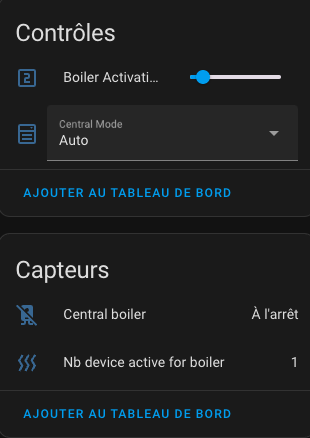
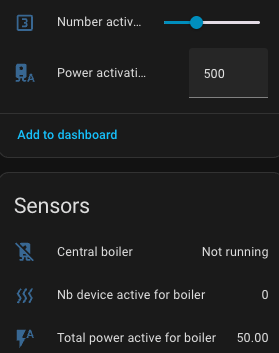
8.3 documentation update

diff --git a/documentation/fr/feature-central-boiler.md b/documentation/fr/feature-central-boiler.md
@@ -2,29 +2,43 @@
 
 - [Le contrôle d'une chaudière centrale](#le-contrôle-dune-chaudière-centrale)
   - [Principe](#principe)
+    - [Calcul de la puissance activée](#calcul-de-la-puissance-activée)
   - [Configuration](#configuration)
     - [Comment trouver la bonne action ?](#comment-trouver-la-bonne-action-)
   - [Les évènements](#les-évènements)
   - [Avertissement](#avertissement)
 
-Vous avez la possibilité de contrôler une chaudière centralisée. A partir du moment où il est possible de déclencher ou stopper cette chaudière depuis Home Assistant, alors Versatile Thermostat va pouvoir la commander directement.
+Vous avez la possibilité de contrôler une chaudière centrale. A partir du moment où il est possible de déclencher ou stopper cette chaudière depuis Home Assistant, alors Versatile Thermostat va pouvoir la commander directement en fonction de l'état de certains _VTherm_. Si suffisamment de _VTherm_ demande à chauffer alors la chaudière sera allumée après un certain délai paramétrable.
 
 ## Principe
 Le principe mis en place est globalement le suivant :
 1. une nouvelle entité de type `binary_sensor` et nommée par défaut `binary_sensor.central_boiler` est ajoutée,
-2. dans la configuration des _VTherm_ vous indiquez si le VTherm doit contrôler la chaudière. En effet, dans une installation hétérogène, certains VTherm doivent commander la chaudière et d'autres non. Vous devez donc indiquer dans chaque configuration de VTherm si il contrôle la chaudière ou pas,
+2. dans la configuration des _VTherm_ vous indiquez si le VTherm doit contrôler la chaudière. En effet, dans une installation hétérogène, certains VTherm doivent commander la chaudière et d'autres non. Vous devez donc indiquer dans chaque configuration de VTherm si il contrôle la chaudière ou pas. A chauque _VTherm_ controlant la chaudière vous pouvez associer une puissance,
 3. le `binary_sensor.central_boiler` écoute les changements d'états des équipements des VTherm marqués comme contrôlant la chaudière,
-4. dès que le nombre d'équipements pilotés par le VTherm demandant du chauffage (ie son `hvac_action` passe à `Heating`) dépasse un seuil paramétrable, alors le `binary_sensor.central_boiler` passe à `on` et **si un service d'activation a été configuré, alors ce service est appelé**,
+4. dès que le nombre d'équipements pilotés par le VTherm demandant du chauffage (ie son `hvac_action` passe à `Heating`)  ou que le total des puissance dépasse un seuil paramétrable, alors le `binary_sensor.central_boiler` passe à `on` et **si un service d'activation a été configuré, alors ce service est appelé**,
 5. si le nombre d'équipements nécessitant du chauffage repasse en dessous du seuil, alors le `binary_sensor.central_boiler` passe à `off` et si **un service de désactivation a été configuré, alors ce service est appelé**,
-6. vous avez accès à deux entités :
-   - une de type `number` nommée par défaut `number.boiler_activation_threshold`, donne le seuil de déclenchement. Ce seuil est en nombre d'équipements (radiateurs) qui demandent du chauffage.
+6. vous avez accès à 4 entités :
+   - une de type `number` nommée par défaut `number.boiler_activation_threshold`, donne le seuil de déclenchement. Ce seuil est en nombre d'équipements (radiateurs) qui demandent du chauffage et non pas le nombre de _VTherm_ demandant du chauffage.
    - une de type `sensor` nommée par défaut `sensor.nb_device_active_for_boiler`, donne le nombre d'équipements qui demandent du chauffage. Par exemple, un VTherm ayant 4 vannes dont 3 demandent du chauffage fera passer ce capteur à 3. Seuls les équipements des _VTherm_ qui sont marqués pour contrôler la chaudière centrale sont comptabilisés.
+   - une de type `number` nommée `number.boiler_power_activation_threshold` qui donne le seuil de puissance de déclenchement. Si le total des puissances activées par des _Vtherm_ controlant la chaudière est dépassé alors la chaudière sera activée,
+   - une de type `sensor` nommée `sensor.total_power_active_for_boiler` qui donne le dernier total de puissance calculé.
 
 Vous avez donc en permanence, les informations qui permettent de piloter et régler le déclenchement de la chaudière.
 
 Toutes ces entités sont rattachées au service de configuration centrale :
 
 ![Les entités pilotant la chaudière](images/entitites-central-boiler.png)
+
+Dans cet exemple :
+1. la chaudière est éteinte,
+2. elle se déclenche si 3 équipements sont actifs ou si un total de puissance active est de 500,
+3. le nombre d'équipements actifs est 1,
+4. le total de la puissance activée est 230.
+
+### Calcul de la puissance activée
+Le calcul de la puissance activée est dépendant du type de _VTherm_ :
+1. pour tous les _VTherm_ basés sur le [TPI](./algorithms.md#lalgorithme-tpi) la puissance active est [la puissance configurée pour l'équipement](base-attributes.md#choix-des-attributs-de-base) x `on_percent` issue de l'algo TPI. Pour tous ces _VTherm_ la puissance est donc variable et évolue en fonction de la puissance de chauffage demandé. Les puissances n'ont pas d'unités, vous pouvez mettre ce que vous voulez, l'important c'est que toutes les puissances exprimées dans tous les _VTherm_ aient la même unité.
+2. pour les _VTherm_ `over_climate` la puissance calculée est du tout ou rien. Si l'équipement est actif (`is_device_ative`) alors la puissance est celle de du _VTherm_ sinon elle est nulle. Il n'y a pas moyen dans cette configuration de moduler la puissance demandée.
 
 ## Configuration
 Pour configurer cette fonction, vous devez avoir une configuration centralisée (cf. [Configuration](#configuration)) et cocher la case 'Ajouter une chaudière centrale' :
@@ -34,6 +48,8 @@ Pour configurer cette fonction, vous devez avoir une configuration centralisée 
 Sur la page suivante vous pouvez donner la configuration des actions (ex services) à appeler lors de l'allumage / extinction de la chaudière :
 
 ![Ajout d'une chaudière centrale](images/config-central-boiler-2.png)
+
+Le premier paramètre donne un délai en secondes avant d'activer la chaudière. La valeur par défaut est de 0 donc la chaudière est activée tout de suite dès qu'un seuil est franchi. Si vous avez besoin de laisser du temps aux vannes de s'ouvrir (par exemple), mettez une valeur positive en secondes. Certaines vannes pour des planchers chauffant peuvent mettre plusieurs minutes à s'ouvrir et il peut être dommageable d'activer la pompe de la chaudière avant que les vannes ne soient ouvertes.
 
 Les actions (ex services) se configurent comme indiqué dans la page :
 1. le format général est `entity_id/service_id[/attribut:valeur]` (où `/attribut:valeur` est facultatif),
@@ -47,6 +63,9 @@ Exemples (à ajuster à votre cas) :
 - `switch.pompe_chaudiere/switch.turn_on` : pour allumer le swicth qui alimente la pompe de la chaudière,
 - `switch.pompe_chaudiere/switch.turn_off` : pour allumer le swicth qui alimente la pompe de la chaudière,
 - ...
+
+> **Note**
+> Il n'y a pas de délai pour l'extinction de la chaudière. C'est volontaire pour vous éviter de laisser tourner la chaudière alors que toutes les vannes sont fermées. Il faudrait un délai négatif pour bien faire (ie couper la chaudière avant de fermer les vannes) mais ce n'est pas possible en l'état puisque c'est la manipulation des vannes qui délcenche la chaudière et pas l'inverse.
 
 ### Comment trouver la bonne action ?
 Pour trouver l'action à utiliser, le mieux est d'aller dans "Outils de développement / Actions", chercher l'action à appeler, l'entité à commander et l'éventuel paramètre à donner.

diff --git a/documentation/en/feature-central-boiler.md b/documentation/en/feature-central-boiler.md
@@ -2,6 +2,7 @@
 
 - [Le contrôle d'une chaudière centrale# Controlling a Central Boiler](#le-contrôle-dune-chaudière-centrale-controlling-a-central-boiler)
   - [Principle](#principle)
+    - [Active power calculation](#active-power-calculation)
   - [Configuration](#configuration)
     - [How to Find the Right Action?](#how-to-find-the-right-action)
   - [Events](#events)
@@ -10,22 +11,35 @@
 You can control a centralized boiler. As long as it's possible to trigger or stop the boiler from Home Assistant, Versatile Thermostat will be able to control it directly.
 
 ## Principle
-The basic principle is as follows:
-1. A new entity of type `binary_sensor`, named by default `binary_sensor.central_boiler`, is added.
-2. In the configuration of the _VTherms_, you specify whether the _VTherm_ should control the boiler. In a heterogeneous installation, some _VTherms_ should control the boiler, and others should not. Therefore, you need to indicate in each _VTherm_ configuration whether it controls the boiler.
-3. The `binary_sensor.central_boiler` listens for state changes in the equipment of the _VTherms_ marked as controlling the boiler.
-4. When the number of devices controlled by the _VTherm_ requesting heating (i.e., when its `hvac_action` changes to `Heating`) exceeds a configurable threshold, the `binary_sensor.central_boiler` turns `on`, and **if an activation service has been configured, that service is called**.
-5. If the number of devices requesting heating drops below the threshold, the `binary_sensor.central_boiler` turns `off`, and **if a deactivation service has been configured, that service is called**.
-6. You have access to two entities:
-   - A `number` type entity, named by default `number.boiler_activation_threshold`, which gives the activation threshold. This threshold is the number of devices (radiators) requesting heating.
-   - A `sensor` type entity, named by default `sensor.nb_device_active_for_boiler`, which shows the number of devices requesting heating. For example, a _VTherm_ with 4 valves, 3 of which request heating, will make this sensor show 3. Only the devices from _VTherms_ marked to control the central boiler are counted.
+The principle implemented is globally the following:
+1. a new entity of type `binary_sensor` named by default `binary_sensor.central_boiler` is added,
+2. in the _VTherm_ configuration you indicate whether the VTherm should control the boiler. Indeed, in a heterogeneous installation, some VTherm must control the boiler and others not. You must therefore indicate in each VTherm configuration whether it controls the boiler or not. For each _VTherm_ controlling the boiler you can associate a power,
+3. the `binary_sensor.central_boiler` listens to state changes of equipment from VTherm marked as controlling the boiler,
+4. as soon as the number of equipment controlled by the VTherm requesting heating (i.e. its `hvac_action` changes to `Heating`) or the total power exceeds a configurable threshold, then the `binary_sensor.central_boiler` switches to `on` and **if an activation service has been configured, then this service is called**,
+5. if the number of equipment requiring heating falls below the threshold, then the `binary_sensor.central_boiler` switches to `off` and if **a deactivation service has been configured, then this service is called**,
+6. you have access to 4 entities:
+   - one of type `number` named by default `number.boiler_activation_threshold`, gives the activation threshold. This threshold is in number of equipment (radiators) requesting heating and not the number of _VTherm_ requesting heating.
+   - one of type `sensor` named by default `sensor.nb_device_active_for_boiler`, gives the number of equipment requesting heating. For example, a VTherm with 4 valves of which 3 are requesting heating will set this sensor to 3. Only equipment from _VTherm_ that are marked to control the central boiler are counted.
+   - one of type `number` named `number.boiler_power_activation_threshold` which gives the power activation threshold. If the total power activated by _Vtherm_ controlling the boiler is exceeded then the boiler will be activated,
+   - one of type `sensor` named `sensor.total_power_active_for_boiler` which gives the last calculated total power.
 
-You therefore always have the information to manage and adjust the triggering of the boiler.
+You therefore have permanent access to the information that allows you to control and adjust the boiler activation.
 
-All these entities are linked to the central configuration service:
+All these entities are attached to the central configuration service:
 
-![Boiler Control Entities](images/entitites-central-boiler.png)
+![Entities controlling the boiler](images/entitites-central-boiler.png)
 
+In this example:
+1. the boiler is off,
+2. it activates if 3 equipment are active or if the total active power is 500,
+3. the number of active equipment is 1,
+4. the total activated power is 230.
+
+### Active power calculation
+The active power calculation depends on the _VTherm_ type:
+1. for all _VTherm_ based on [TPI](./algorithms.md#lalgorithme-tpi) the active power is [the power configured for the equipment](base-attributes.md#choix-des-attributs-de-base) x `on_percent` from the TPI algorithm. For all these _VTherm_ the power is therefore variable and evolves according to the heating power requested. Powers have no units, you can put whatever you want, the important thing is that all powers expressed in all _VTherm_ have the same unit.
+2. for `over_climate` _VTherm_ the calculated power is all or nothing. If the equipment is active (`is_device_ative`) then the power is that of the _VTherm_ otherwise it is zero. There is no way in this configuration to modulate the requested power.
+3.
 ## Configuration
 To configure this feature, you need a centralized configuration (see [Configuration](#configuration)) and check the 'Add Central Boiler' box:
 
@@ -34,6 +48,8 @@ To configure this feature, you need a centralized configuration (see [Configurat
 On the next page, you can provide the configuration for the actions (e.g., services) to be called when the boiler is turned on/off:
 
 ![Add a Central Boiler](images/config-central-boiler-2.png)
+
+The first parameter specifies a delay in seconds before activating the boiler. The default value is 0, meaning the boiler is activated immediately as soon as a threshold is crossed. If you need to allow time for the valves to open (for example), set a positive value in seconds. Some valves for underfloor heating systems may take several minutes to open, and it could be harmful to activate the boiler pump before the valves are fully open.
 
 The actions (e.g., services) are configured as described on the page:
 1. The general format is `entity_id/service_id[/attribute:value]` (where `/attribute:value` is optional).

diff --git a/README-fr.md b/README-fr.md
@@ -27,7 +27,7 @@ Le composant Versatile Thermostat UI Card (Disponible sur [Github](https://githu
 ![Nouveau](images/new-icon.png)
 
 ## Release 8.3
-1. ajout d'un délai configurable pour l'activation de la chaudière centrale,
+1. ajout d'un délai configurable avant l'activation de la chaudière centrale,
 2. ajout d'un déclenchement de la chaudière centrale si le total de la puissance activée dépasse un seuil. Pour faire marcher cette fonction il faut :
 - configurer le seuil de puissance qui va déclencher la chaudière. C'est une nouvelle entité qui est disponible dans l'appareil 'configuration centrale',
 - configurez les puissances des Vtherms. Ca se trouve dans la première page de configuration des VTherms,
@@ -36,6 +36,8 @@ Le composant Versatile Thermostat UI Card (Disponible sur [Github](https://githu
 A chaque fois que le VTherm sera activé, sa puissance configurée viendra s'ajoutée et si le seuil est dépassé, la chaudière centrale sera activée après le délai configuré en 1.
 
 L'ancien compteur du nombres de devices activés et son seuil existent toujours. Pour désactiver l'un des seuils (le seuil de puissance ou le seuil du nombre de devices activés), il faut le mettre à zéro. Dès que l'un des 2 seuils différents de zéro est dépassé, la chaudière est activée. C'est donc un "ou logique" entre les 2 seuils qui est appliqué.
+
+Plus d'informations [ici](documentation/fr/feature-central-boiler.md).
 
 ## Release 8.2
 > - Ajout d'une fonction permettant de verrouiller / déverouiller un _VTherm_ avec potentiellement un code. Plus d'informations [ici](documentation/fr/feature-lock.md)

diff --git a/README.md b/README.md
@@ -27,7 +27,7 @@ Versatile Thermostat UI Card (Available on [Github](https://github.com/jmcollin7
 ![New](images/new-icon.png)
 
 ## Release 8.3
-1. Addition of a configurable delay for activating the central boiler.
+1. Addition of a configurable delay before activating the central boiler.
 2. Addition of a trigger for the central boiler when the total activated power exceeds a threshold. To make this feature work you must:
    - Configure the power threshold that will trigger the boiler. This is a new entity available in the `central configuration` device.
    - Configure the power values of the VTherms. This can be found on the first configuration page of each VTherm.
@@ -36,6 +36,8 @@ Versatile Thermostat UI Card (Available on [Github](https://github.com/jmcollin7
 Each time a VTherm is activated, its configured power is added to the total and, if the threshold is exceeded, the central boiler will be activated after the delay configured in item 1.
 
 The previous counter for the number of activated devices and its threshold still exist. To disable one of the thresholds (the power threshold or the activated-devices count threshold), set it to zero. As soon as either of the two non-zero thresholds is exceeded, the boiler is activated. Therefore a logical "or" is applied between the two thresholds.
+
+More informations [here](documentation/fr/feature-central-boiler.md).
 
 ## Release 8.2
 > Added a feature to lock / unlock a VTherm with an optional code. More information [here](documentation/en/feature-lock.md)

diff --git a/README-pl.md b/README-pl.md
@@ -26,6 +26,19 @@ Karta integracji Versatile Thermostat UI (dostępna na [Github](https://github.c
 # Co nowego?
 ![New](images/new-icon.png)
 
+## Release 8.3
+1. Addition of a configurable delay before activating the central boiler.
+2. Addition of a trigger for the central boiler when the total activated power exceeds a threshold. To make this feature work you must:
+   - Configure the power threshold that will trigger the boiler. This is a new entity available in the `central configuration` device.
+   - Configure the power values of the VTherms. This can be found on the first configuration page of each VTherm.
+   - Check the `Used by central boiler` box.
+
+Each time a VTherm is activated, its configured power is added to the total and, if the threshold is exceeded, the central boiler will be activated after the delay configured in item 1.
+
+The previous counter for the number of activated devices and its threshold still exist. To disable one of the thresholds (the power threshold or the activated-devices count threshold), set it to zero. As soon as either of the two non-zero thresholds is exceeded, the boiler is activated. Therefore a logical "or" is applied between the two thresholds.
+
+More informations [here](documentation/fr/feature-central-boiler.md).
+
 ## Wydanie 8.2
 > Dodano opcjonalną funkcję blokowania/odblokowania termostatu _*VTherm*_ za pomocą kodu PIN. Więcej informacji na ten temat znajduje się [tutaj](documentation/pl/feature-lock.md).
 

diff --git a/README-cs.md b/README-cs.md
@@ -26,6 +26,19 @@ Versatile Thermostat UI Card (K dispozici na [Github](https://github.com/jmcolli
 # Co je nového?
 ![Nové](images/new-icon.png)
 
+## Release 8.3
+1. Addition of a configurable delay before activating the central boiler.
+2. Addition of a trigger for the central boiler when the total activated power exceeds a threshold. To make this feature work you must:
+   - Configure the power threshold that will trigger the boiler. This is a new entity available in the `central configuration` device.
+   - Configure the power values of the VTherms. This can be found on the first configuration page of each VTherm.
+   - Check the `Used by central boiler` box.
+
+Each time a VTherm is activated, its configured power is added to the total and, if the threshold is exceeded, the central boiler will be activated after the delay configured in item 1.
+
+The previous counter for the number of activated devices and its threshold still exist. To disable one of the thresholds (the power threshold or the activated-devices count threshold), set it to zero. As soon as either of the two non-zero thresholds is exceeded, the boiler is activated. Therefore a logical "or" is applied between the two thresholds.
+
+More informations [here](documentation/fr/feature-central-boiler.md).
+
 ## Release 8.2
 > Added a feature to lock / unlock a VTherm with an optional code. More information [here](documentation/cs/feature-lock.md)
 

diff --git a/README-de.md b/README-de.md
@@ -26,6 +26,19 @@ Versatile Thermostat UI Card (Verfügbar auf [Github](https://github.com/jmcolli
 # Was ist neu?
 ![New](images/new-icon.png)
 
+## Release 8.3
+1. Addition of a configurable delay before activating the central boiler.
+2. Addition of a trigger for the central boiler when the total activated power exceeds a threshold. To make this feature work you must:
+   - Configure the power threshold that will trigger the boiler. This is a new entity available in the `central configuration` device.
+   - Configure the power values of the VTherms. This can be found on the first configuration page of each VTherm.
+   - Check the `Used by central boiler` box.
+
+Each time a VTherm is activated, its configured power is added to the total and, if the threshold is exceeded, the central boiler will be activated after the delay configured in item 1.
+
+The previous counter for the number of activated devices and its threshold still exist. To disable one of the thresholds (the power threshold or the activated-devices count threshold), set it to zero. As soon as either of the two non-zero thresholds is exceeded, the boiler is activated. Therefore a logical "or" is applied between the two thresholds.
+
+More informations [here](documentation/fr/feature-central-boiler.md).
+
 ## Release 8.2
 > Added a feature to lock / unlock a VTherm with an optional code. More information [here](documentation/de/feature-lock.md)
 

diff --git a/documentation/de/feature-central-boiler.md b/documentation/de/feature-central-boiler.md
@@ -3,13 +3,16 @@
 - [Steuerung der Zentralheizung](#steuerung-der-zentralheizung)
   - [Prinzip](#prinzip)
   - [Konfiguration](#konfiguration)
-    - [Wie findet man die richtige Maßnahme?](#wie-findet-man-die-richtige-maßnahme?)
+    - [Wie findet man die richtige Maßnahme?](#wie-findet-man-die-richtige-maßnahme)
   - [Ereignisse](#ereignisse)
   - [Warnhinweis](#warnhinweis)
 
 Sie können einen Zentralheizungskessel steuern. Solange es möglich ist, den Heizkessel vom Home Assistant aus zu starten oder zu stoppen, kann der Versatile Thermostat ihn direkt steuern.
 
 ## Prinzip
+
+<please update translation from English version>
+
 Grundlegend funktioniert das so:
 1. Eine neue Entität des Typs `binary_sensor` mit dem Standardnamen `binary_sensor.central_boiler` wird hinzugefügt.
 2. In der Konfiguration des _VTherms_ legen Sie fest, ob das _VTherm_ den Heizkessel steuern soll. In einer heterogenen Installation sollen einige _VTherms_ den Kessel steuern, andere nicht. Daher müssen Sie in jeder _VTherm_-Konfiguration angeben, ob sie den Heizkessel steuert.

diff --git a/documentation/pl/feature-central-boiler.md b/documentation/pl/feature-central-boiler.md
@@ -10,6 +10,9 @@
 Możesz sterować kotłem głównym. Jak długo możliwe jest jego załączanie lub wyłączanie z poziomu Home Assistanta, integracja `Versatile Thermostat` będzie w stanie kontrolować go bezpośrednio.
 
 ## Zasady
+
+<please update translation from English version>
+
 Podstawowa zasada działania jest następująca:
 1. Dodawana jest nowa encja typu `binary_sensor`, domyślnie nazwana `binary_sensor.central_boiler`.
 2. W konfiguracji termostatu określasz, czy ma on sterować kotłem. W instalacji heterogenicznej niektóre termostaty _VTherm_ powinny sterować kotłem, a inne nie. Dlatego w konfiguracji każdego termostatu należy wskazać, czy ma on sterować kotłem.

diff --git a/documentation/cs/feature-central-boiler.md b/documentation/cs/feature-central-boiler.md
@@ -10,6 +10,9 @@
 Můžete ovládat centralizovaný kotel. Pokud je možné spustit nebo zastavit kotel z Home Assistant, Versatile Thermostat jej bude moci přímo ovládat.
 
 ## Princip
+
+<please update translation from English version>
+
 Základní princip je následující:
 1. Přidá se nová entita typu `binary_sensor`, pojmenovaná ve výchozím nastavení `binary_sensor.central_boiler`.
 2. V konfiguraci _VTherm_ specifikujete, zda by _VTherm_ měl ovládat kotel. V heterogenní instalaci by některé _VTherm_ měly ovládat kotel a jiné ne. Proto musíte v každé konfiguraci _VTherm_ uvést, zda ovládá kotel.
